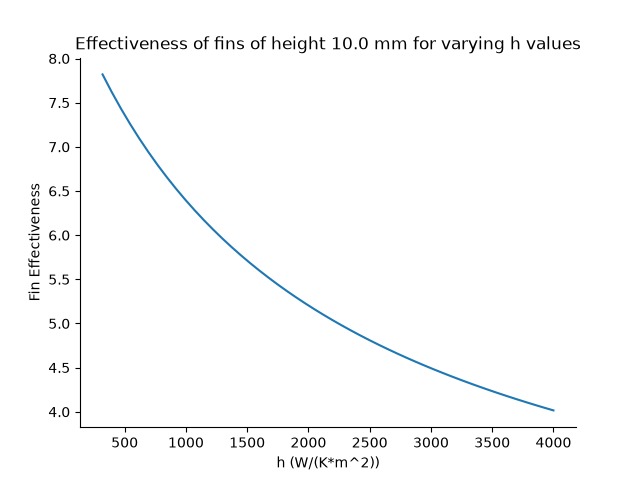
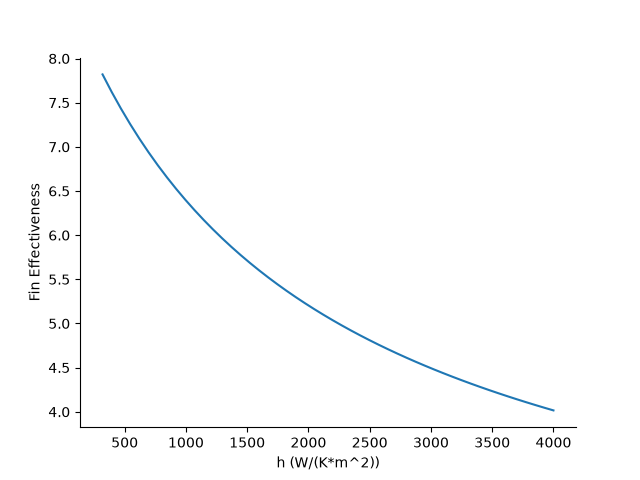
Removed title

Changed region(s): [[0.125, 0.0625, 0.9062, 0.125]]

diff --git a/golden_fin2.py b/golden_fin2.py
@@ -82,7 +82,7 @@ ax.set_xlabel("h (W/(K*m^2))")
 ax.set_ylabel("Fin Effectiveness")
 ax.spines['top'].set_visible(False)
 ax.spines['right'].set_visible(False)
-plt.title(f"Effectiveness of fins of height {l_f*1000} mm for varying h values")
+# plt.title(f"Effectiveness of fins of height {l_f*1000} mm for varying h values")
 plt.savefig("effectiveness_graph.png")
 
 
